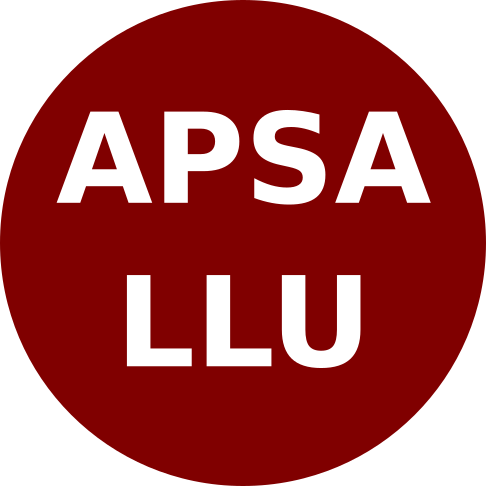
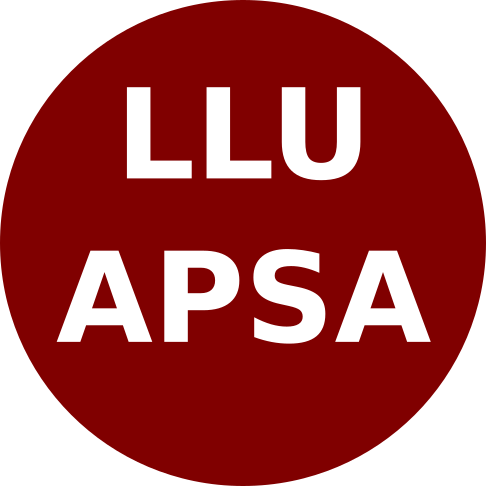
Update FB link

Changed region(s): [[0.1235, 0.4938, 0.8951, 0.7716], [0.1235, 0.1543, 0.8951, 0.4321]]

diff --git a/docs/index.html b/docs/index.html
@@ -8,9 +8,9 @@
   <title>LLU APSA</title>
   <meta property="og:title" content="LLU APSA" />
   <meta name="twitter:title" content="LLU APSA" />
-  <meta name="description" content="Welcome to APSA LLU APSA LLU seeks to inspire, empower, and equip physician-scientists at LLU for success.">
-  <meta property="og:description" content="Welcome to APSA LLU APSA LLU seeks to inspire, empower, and equip physician-scientists at LLU for success.">
-  <meta name="twitter:description" content="Welcome to APSA LLU APSA LLU seeks to inspire, empower, and equip physician-scientists at LLU for success.">
+  <meta name="description" content="Welcome to LLU APSA LLU APSA seeks to inspire, empower, and equip physician-scientists at LLU for success.">
+  <meta property="og:description" content="Welcome to LLU APSA LLU APSA seeks to inspire, empower, and equip physician-scientists at LLU for success.">
+  <meta name="twitter:description" content="Welcome to LLU APSA LLU APSA seeks to inspire, empower, and equip physician-scientists at LLU for success.">
   <meta name="author" content="LLU APSA"/>
   <link href='https://lluapsa.com/img/circle-text-dark.svg.png' rel='icon' type='image/x-icon'/>
   <meta property="og:image" content="https://lluapsa.com/img/circle-text-dark.svg.png" />
@@ -134,9 +134,9 @@
           <div class="well">
             
 
-<h2 id="welcome-to-apsa-llu">Welcome to APSA LLU</h2>
+<h2 id="welcome-to-llu-apsa">Welcome to LLU APSA</h2>
 
-<p>APSA LLU seeks to inspire, empower, and equip physician-scientists at LLU for success.</p>
+<p>LLU APSA seeks to inspire, empower, and equip physician-scientists at LLU for success.</p>
 
           </div>
         
@@ -166,7 +166,7 @@
                 </a>
               </li>
               <li>
-                <a href="https://www.facebook.com/groups/apsallu" title="Facebook">
+                <a href="https://www.facebook.com/groups/lluapsa" title="Facebook">
                   <span class="fa-stack fa-lg">
                     <i class="fa fa-circle fa-stack-2x"></i>
                     <i class="fa fa-facebook fa-stack-1x fa-inverse"></i>

diff --git a/docs/resources/community/index.html b/docs/resources/community/index.html
@@ -8,9 +8,9 @@
   <title>Community</title>
   <meta property="og:title" content="Community" />
   <meta name="twitter:title" content="Community" />
-  <meta name="description" content="APSA LLU communtiy contacts and events">
-  <meta property="og:description" content="APSA LLU communtiy contacts and events">
-  <meta name="twitter:description" content="APSA LLU communtiy contacts and events">
+  <meta name="description" content="LLU APSA communtiy contacts and events">
+  <meta property="og:description" content="LLU APSA communtiy contacts and events">
+  <meta name="twitter:description" content="LLU APSA communtiy contacts and events">
   <meta name="author" content="LLU APSA"/>
   <link href='https://lluapsa.com/img/circle-text-dark.svg.png' rel='icon' type='image/x-icon'/>
   <meta property="og:image" content="https://lluapsa.com/img/circle-text-dark.svg.png" />
@@ -113,7 +113,7 @@
               <h1>Community</h1>
                 
                   
-                    <h2 class="resources-subheading">APSA LLU communtiy contacts and events</h2>
+                    <h2 class="resources-subheading">LLU APSA communtiy contacts and events</h2>
                   
                 
                 
@@ -164,7 +164,7 @@
                 </a>
               </li>
               <li>
-                <a href="https://www.facebook.com/groups/apsallu" title="Facebook">
+                <a href="https://www.facebook.com/groups/lluapsa" title="Facebook">
                   <span class="fa-stack fa-lg">
                     <i class="fa fa-circle fa-stack-2x"></i>
                     <i class="fa fa-facebook fa-stack-1x fa-inverse"></i>

diff --git a/docs/page/about/index.html b/docs/page/about/index.html
@@ -5,9 +5,9 @@
   <meta http-equiv="X-UA-Compatible" content="IE=edge">
   <meta name="viewport" content="width=device-width, initial-scale=1.0, maximum-scale=1.0">
 
-  <title>About APSA LLU</title>
-  <meta property="og:title" content="About APSA LLU" />
-  <meta name="twitter:title" content="About APSA LLU" />
+  <title>About LLU APSA</title>
+  <meta property="og:title" content="About LLU APSA" />
+  <meta name="twitter:title" content="About LLU APSA" />
   <meta name="description" content="Inspire, empower, equip">
   <meta property="og:description" content="Inspire, empower, equip">
   <meta name="twitter:description" content="Inspire, empower, equip">
@@ -110,7 +110,7 @@
         <div class="row">
           <div class="col-lg-8 col-lg-offset-2 col-md-10 col-md-offset-1">
             <div class="page-heading">
-              <h1>About APSA LLU</h1>
+              <h1>About LLU APSA</h1>
                 
                   
                     <hr class="small">
@@ -177,7 +177,7 @@ physician-scientists in training.</li>
                 </a>
               </li>
               <li>
-                <a href="https://www.facebook.com/groups/apsallu" title="Facebook">
+                <a href="https://www.facebook.com/groups/lluapsa" title="Facebook">
                   <span class="fa-stack fa-lg">
                     <i class="fa fa-circle fa-stack-2x"></i>
                     <i class="fa fa-facebook fa-stack-1x fa-inverse"></i>

diff --git a/docs/page/index.html b/docs/page/index.html
@@ -114,7 +114,7 @@
           
             <article class="post-preview">
               <a href="https://lluapsa.com/page/about/">
-                <h2 class="post-title">About APSA LLU</h2>
+                <h2 class="post-title">About LLU APSA</h2>
     
                 
                   <h3 class="post-subtitle">
@@ -159,7 +159,7 @@
                 </a>
               </li>
               <li>
-                <a href="https://www.facebook.com/groups/apsallu" title="Facebook">
+                <a href="https://www.facebook.com/groups/lluapsa" title="Facebook">
                   <span class="fa-stack fa-lg">
                     <i class="fa fa-circle fa-stack-2x"></i>
                     <i class="fa fa-facebook fa-stack-1x fa-inverse"></i>

diff --git a/docs/resources/index.html b/docs/resources/index.html
@@ -143,7 +143,7 @@
     
                 
                   <h3 class="post-subtitle">
-                    APSA LLU communtiy contacts and events
+                    LLU APSA communtiy contacts and events
                   </h3>
                 
               </a>
@@ -183,7 +183,7 @@
                 </a>
               </li>
               <li>
-                <a href="https://www.facebook.com/groups/apsallu" title="Facebook">
+                <a href="https://www.facebook.com/groups/lluapsa" title="Facebook">
                   <span class="fa-stack fa-lg">
                     <i class="fa fa-circle fa-stack-2x"></i>
                     <i class="fa fa-facebook fa-stack-1x fa-inverse"></i>

diff --git a/docs/js/main.js b/docs/js/main.js
@@ -34,11 +34,11 @@ var main = {
         }
       });
     });
-    
+
     // Ensure nested navbar menus are not longer than the menu header
     var menus = $(".navlinks-container");
     if (menus.length > 0) {
-      var navbar = $("#main-navbar ul");
+      var navbar = $("#main-navbar").find("ul");
       var fakeMenuHtml = "<li class='fake-menu' style='display:none;'><a></a></li>";
       navbar.append(fakeMenuHtml);
       var fakeMenu = $(".fake-menu");

diff --git a/docs/404.html b/docs/404.html
@@ -114,7 +114,7 @@
                 </a>
               </li>
               <li>
-                <a href="https://www.facebook.com/groups/apsallu" title="Facebook">
+                <a href="https://www.facebook.com/groups/lluapsa" title="Facebook">
                   <span class="fa-stack fa-lg">
                     <i class="fa fa-circle fa-stack-2x"></i>
                     <i class="fa fa-facebook fa-stack-1x fa-inverse"></i>

diff --git a/docs/categories/index.html b/docs/categories/index.html
@@ -143,7 +143,7 @@
                 </a>
               </li>
               <li>
-                <a href="https://www.facebook.com/groups/apsallu" title="Facebook">
+                <a href="https://www.facebook.com/groups/lluapsa" title="Facebook">
                   <span class="fa-stack fa-lg">
                     <i class="fa fa-circle fa-stack-2x"></i>
                     <i class="fa fa-facebook fa-stack-1x fa-inverse"></i>

diff --git a/docs/resources/academics/index.html b/docs/resources/academics/index.html
@@ -164,7 +164,7 @@
                 </a>
               </li>
               <li>
-                <a href="https://www.facebook.com/groups/apsallu" title="Facebook">
+                <a href="https://www.facebook.com/groups/lluapsa" title="Facebook">
                   <span class="fa-stack fa-lg">
                     <i class="fa fa-circle fa-stack-2x"></i>
                     <i class="fa fa-facebook fa-stack-1x fa-inverse"></i>

diff --git a/docs/tags/index.html b/docs/tags/index.html
@@ -143,7 +143,7 @@
                 </a>
               </li>
               <li>
-                <a href="https://www.facebook.com/groups/apsallu" title="Facebook">
+                <a href="https://www.facebook.com/groups/lluapsa" title="Facebook">
                   <span class="fa-stack fa-lg">
                     <i class="fa fa-circle fa-stack-2x"></i>
                     <i class="fa fa-facebook fa-stack-1x fa-inverse"></i>

diff --git a/docs/css/main.css b/docs/css/main.css
@@ -1,5 +1,3 @@
-@import url("pygment_highlights.css");
-
 /* --- General --- */
 
 body {

diff --git a/content/_index.md b/content/_index.md
@@ -1,3 +1,3 @@
-## Welcome to APSA LLU
+## Welcome to LLU APSA
 
-APSA LLU seeks to inspire, empower, and equip physician-scientists at LLU for success.
+LLU APSA seeks to inspire, empower, and equip physician-scientists at LLU for success.
